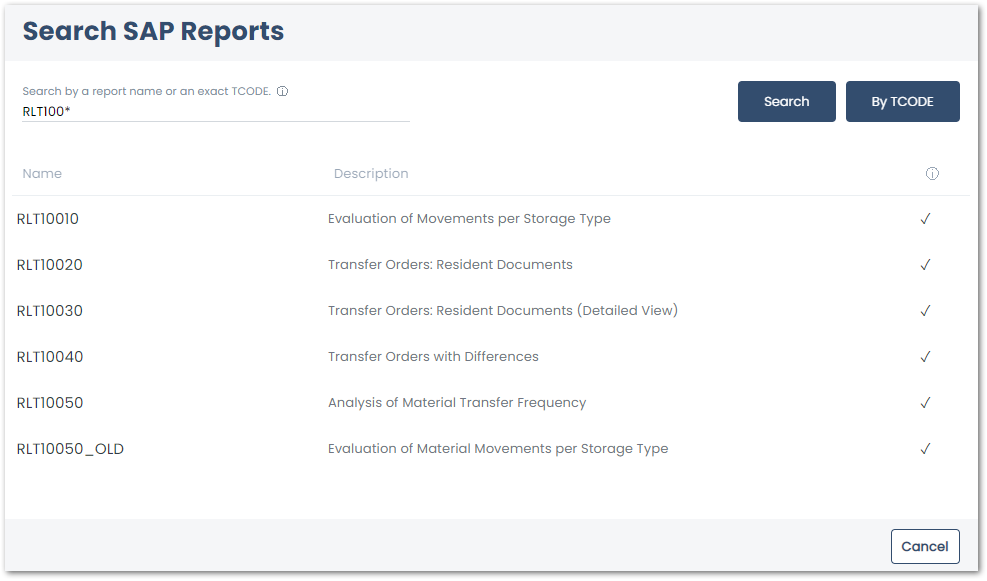
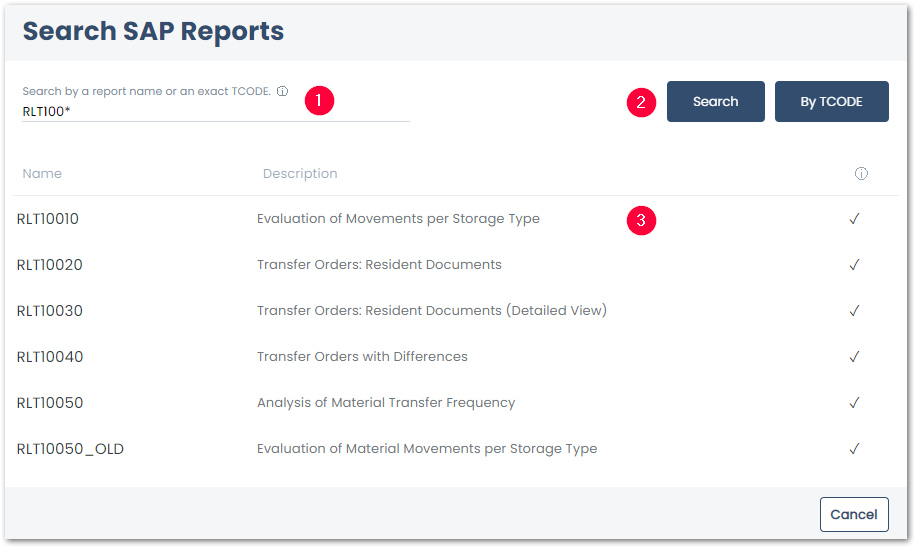
first draft

diff --git a/content/_en/yunio/report.md b/content/_en/yunio/report.md
@@ -13,7 +13,9 @@ old_url: /Xtract-Universal-EN/default.aspx?pageid=where-clause
 progressstate: 5
 ---
 
-This section shows how to use the integration type *Report*. 
+This section shows how to use the integration type *Report*. <br>
+The integration type *Report* extracts data from most standard and custom ABAP reports and SAP transactions.
+A report extraction is possible if the report returns a table-like structure in SAP.
 
 {: .box-note}
 **Note:** The integration type *Report* is still in preview mode. This means that breaking changes can be released any time. 
@@ -23,26 +25,31 @@ This section shows how to use the integration type *Report*.
 To use Reports in yunIO, access to the designated authority objects (RFC) in SAP must be available.
 For more information, refer to the knowledge base article [SAP User Rights: Report](https://kb.theobald-software.com/sap/authority-objects-sap-user-rights#report).
 
-### Look Up a Report
+## General Workflow
+The following graphic shows the general workflow of setting up report services with yunIO:<br>
+![Report-Workflow](/img/content/report-general-workflow-yunIO.png){:class="img-responsive" width="400px"}
+
+
+## Look Up a Report
 
 1. Create a new *Service* of type *Report (preview)*. 
 2. Click **[Save and edit]**. The *Search SAP Reports* menu opens.
 3. Enter the name of a report or the TCODE of a report in the field **Search by a report name or an exact TCODE** (1). When looking up report names, the use of wildcards ( * ) is supported.
-![SAP-Table-or-Views](/img/content/yunio/Search-table-view.png){:class="img-responsive" width="750px"}
+![SAP-Table-or-Views](/img/content/yunio/report-lookup.png){:class="img-responsive" width="750px"}
 4. To look up report names, click **[Search]** (2). The search results are displayed.<br>
 To look up TCODES, click **[By TCODE]** (2). to display the search results.
 5. Select a source file from the list of available search results (3). 
 The extraction settings of *Report (preview)* open automatically.<br>
 
-### Settings
+## Settings
 The *Report* settings consist of the following subsections:
-
-![yunIO-table](/img/content/yunio/table-settings.png){:class="img-responsive"}
-
 - [Report](#report) (4) displays the name and description of the selected report.
 - [Advanced Settings](#advanced-settings) (5) define how the data is extract from SAP.
 - [Selection Parameters](#selection-parameters) (6) define input parameter for the yunIO service.
 - [Output Columns](#output-columns) (7) define the output of the yunIO service.
+
+![yunIO-table](/img/content/yunio/report.png){:class="img-responsive"}
+
 
 ### Report
 
@@ -66,7 +73,7 @@ This setting allows skipping the meta information.
 
 #### Skip rows from bottom
 
-Similar to skip rows from top. Enter the number of rows you want to skip in the footer section of the report.
+Similar to **skip rows from top**. Enter the number of rows you want to skip in the footer section of the report.
 
 #### Variant
 
@@ -79,6 +86,14 @@ The purpose of a variant is to minimizes the need to enter selections each time 
 {: .box-note}
 **Note:** Manual selections and variants can be combined. Manual selections overwrite any selections in the variant.
 
+#### Detect Columns
+Click **[Automatically detect columns]** to execute the report based on the selected variant or selections and detect columns automatically.
+Detecting columns is mandatory for using the service.
+
+{: .box-note}
+**Note:** If a report has variants, the variant must be selected, before using **[Automatically detect columns]**.
+
+
 ### Selection Parameters
 This section corresponds to the report’s input screen in SAP. <br>
 Some selection fields only have a technical name and no description. 
@@ -88,9 +103,25 @@ This displays the technical name of a selection field.
 
 ### Output Columns
 
-You can select either all or only individual columns for extraction. <br>
-Per default all columns are selected to be extracted. 
-Deselect the columns you don’t want to extract.
+This section displays the length and names of the detected report columns. 
+
+{: .box-tip }
+**Tip:** To manually adjust the length and names of columns, download and edit the service definition of the report service.
+
+## Example Service
+
+The following example shows how to set up a yunIO service that extracts the SAP ABAP report RLT10010 (Evaluation of Movements per Storage Type):
+1. Create a new service of integration type *Report*, see [Getting Started: Creating a Service](./getting-started#creating-a-service).
+2. Look up the report RLT10010, see [Look Up a Report](#look-up-a-report).
+3. Select a variant or enter selection parameters. This example uses a variant *VAR01*.<br>
+![SAP-Table-or-Views](/img/content/yunio/report-rlt10010.png){:class="img-responsive"}
+4. Set **Skip rows from top** to 10 to skip the header of the report. Run the report in SAP to determine the number of rows that need to be skipped.
+![SAP-Table-or-Views](/img/content/yunio/report-sap.png){:class="img-responsive"}
+5. Click **[Detect Columns]** to automatically detect the columns of the report. The detected columns are displayed in the section *Output Columns*.
+6. Click **[Save]** to save the service.
+7. To test the output of the service, run the service in your browser, see [Getting Started: How to Run a Service](./getting-started#how-to-run-a-service).<br>
+![SAP-Table-or-Views](/img/content/yunio/report-response.png){:class="img-responsive"}
+
 
 *****
 #### Related Links

diff --git a/content/_de/yunio/table-and-views.md b/content/_de/yunio/table-and-views.md
@@ -32,14 +32,13 @@ Die Extraktionseinstellungen für *SAP Tabelle und Ansichten* öffnen sich autom
 
 ### Einstellungen
 Das *SAP Table and Views* Menü ist in folgende Unterabschnitte unterteilt:
-
-![yunIO-table](/img/content/yunio/table-settings.png){:class="img-responsive"}
-
 - [Table or View](#table-or-view) (4) zeigt den Namen und die Beschreibung der gewählten SAP Tabelle oder View an.
 - [Advanced Settings](#advanced-settings) (5) definieren, wie Daten aus SAP extrahiert werden.
 - [Output Columns](#output-columns) (6) definieren, welche Spalten extrahiert werden.
 - [WHERE Clause](#where-clause) (7) ermöglicht das Filtern von Daten.
 - [WHERE Clause Editor](#where-clause-editor) (8) bietet ein Toolkit zum Erstellen von WHERE-Bedingungen.
+
+![yunIO-table](/img/content/yunio/table-settings.png){:class="img-responsive"}
 
 
 ### Table or View

diff --git a/content/_en/yunio/table-and-views.md b/content/_en/yunio/table-and-views.md
@@ -33,14 +33,14 @@ The extraction settings of *SAP Table and Views* open automatically.<br>
 
 ### Settings
 The *SAP Table or View* settings consist of the following subsections:
-
-![yunIO-table](/img/content/yunio/table-settings.png){:class="img-responsive"}
-
 - [Table or View](#table-or-view) (4) displays the name and description of the selected SAP Table or View.
 - [Advanced Settings](#advanced-settings) (5) define how the data is extract from SAP.
 - [Output Columns](#output-columns) (6) define which columns are extracted.
 - [WHERE Clause](#where-clause) (7) offers an optional data filter.
 - [WHERE Clause Editor](#where-clause-editor) (8) offers a toolkit for creating WHERE clauses.
+
+![yunIO-table](/img/content/yunio/table-settings.png){:class="img-responsive"}
+
 
 
 ### Table or View

diff --git a/_includes/_content/en/abap-reports/report-about.md b/_includes/_content/en/abap-reports/report-about.md
@@ -1,6 +1,6 @@
 
-The Report component enables data extraction from most standard and custom ABAP reports and SAP transactions. <br>
-In general report extraction is possible if the report returns a table-like structure in SAP. 
+The Report component extracts data from most standard and custom ABAP reports and SAP transactions. <br>
+A report extraction is possible if the report returns a table-like structure in SAP. 
 
 {: .box-note }
 **Note:** The Report component requires installation of the custom function module `Z_XTRACT_IS_REMOTE_REPORT` in your SAP system. As of `Z_XTRACT_IS_REMOTE_REPORT` version 1.2 access to reports must be explicitly granted. For more information, see [Install Report Custom Fuction Module](./sap-customizing/install-report-custom-function-module). 
